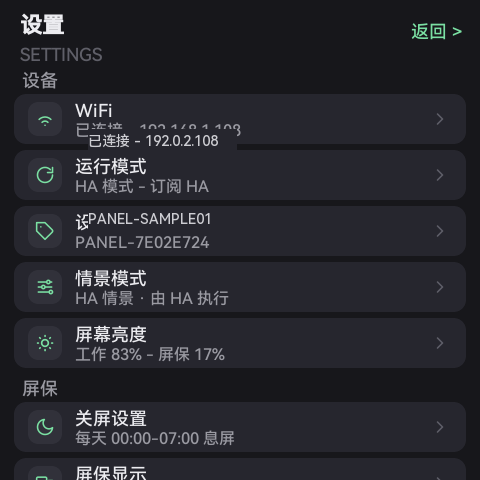
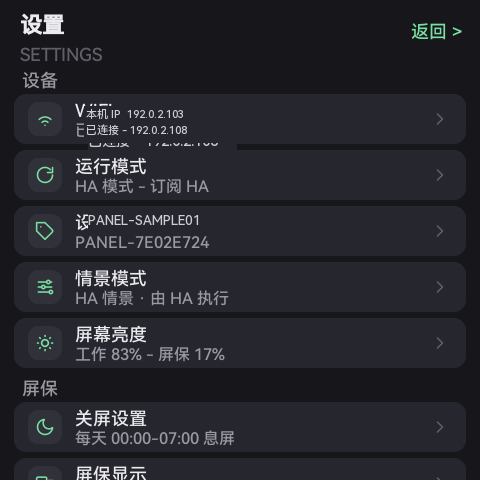
docs(readme): 首页第三格改为「设置 · 功能一览」（替换相册扫码图），设置页截图两行 IP 一并脱敏

Changed region(s): [[0.1562, 0.2188, 0.5, 0.3125], [0.1875, 0.4375, 0.4375, 0.4688]]

diff --git a/README.en.md b/README.en.md
@@ -16,7 +16,7 @@ and **multiple panels tiled into one video wall**.
   <tr>
     <td align="center"><img src="docs/shots/01_home.png" width="150"><br><sub><b>Home</b><br>3 relays + scenes</sub></td>
     <td align="center"><img src="docs/shots/02_run_mode.png" width="150"><br><sub><b>Run modes</b><br>HA / local master / slave</sub></td>
-    <td align="center"><img src="docs/shots/03_album_qr.png" width="150"><br><sub><b>Album</b><br>scan to upload</sub></td>
+    <td align="center"><img src="docs/shots/03_settings.png" width="150"><br><sub><b>Settings</b><br>all features at a glance</sub></td>
     <td align="center"><img src="docs/shots/04_screensaver_video.png" width="150"><br><sub><b>Screensaver</b><br>video / photo rotation</sub></td>
     <td align="center"><img src="docs/shots/05_ha_config_qr.png" width="150"><br><sub><b>HA config</b><br>scan &amp; paste token</sub></td>
   </tr>

diff --git a/README.md b/README.md
@@ -15,7 +15,7 @@
   <tr>
     <td align="center"><img src="docs/shots/01_home.png" width="150"><br><sub><b>主界面</b><br>3 路继电器 + 情景</sub></td>
     <td align="center"><img src="docs/shots/02_run_mode.png" width="150"><br><sub><b>运行模式</b><br>HA / 本地主机 / 从机</sub></td>
-    <td align="center"><img src="docs/shots/03_album_qr.png" width="150"><br><sub><b>相册</b><br>扫码传图</sub></td>
+    <td align="center"><img src="docs/shots/03_settings.png" width="150"><br><sub><b>设置</b><br>功能一览·全部功能入口</sub></td>
     <td align="center"><img src="docs/shots/04_screensaver_video.png" width="150"><br><sub><b>屏保</b><br>视频/图片轮播</sub></td>
     <td align="center"><img src="docs/shots/05_ha_config_qr.png" width="150"><br><sub><b>HA 配置</b><br>扫码填服务器与令牌</sub></td>
   </tr>
